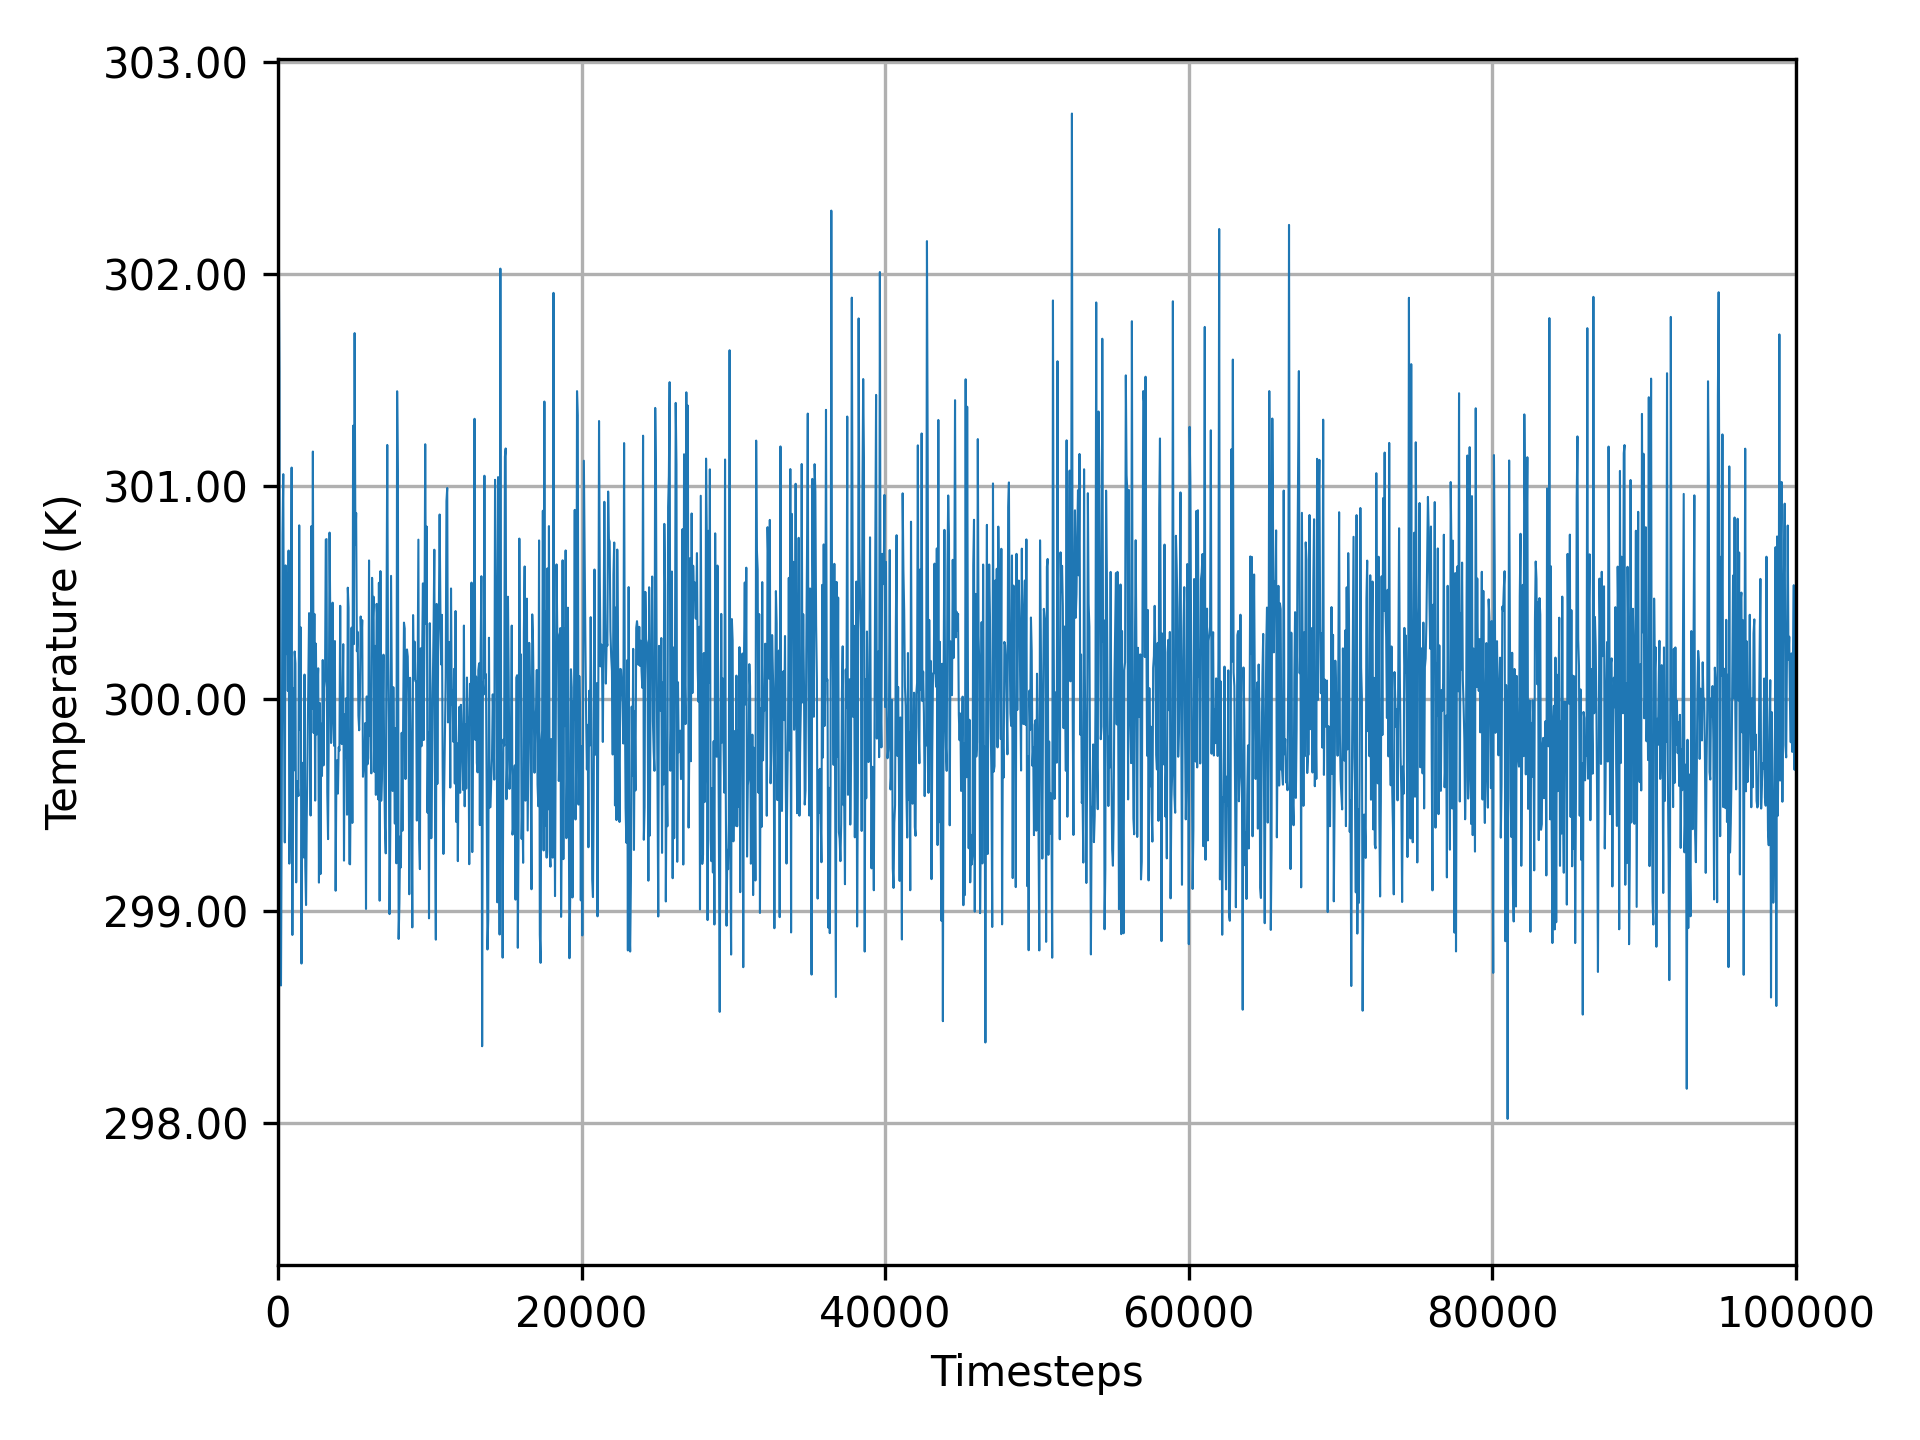
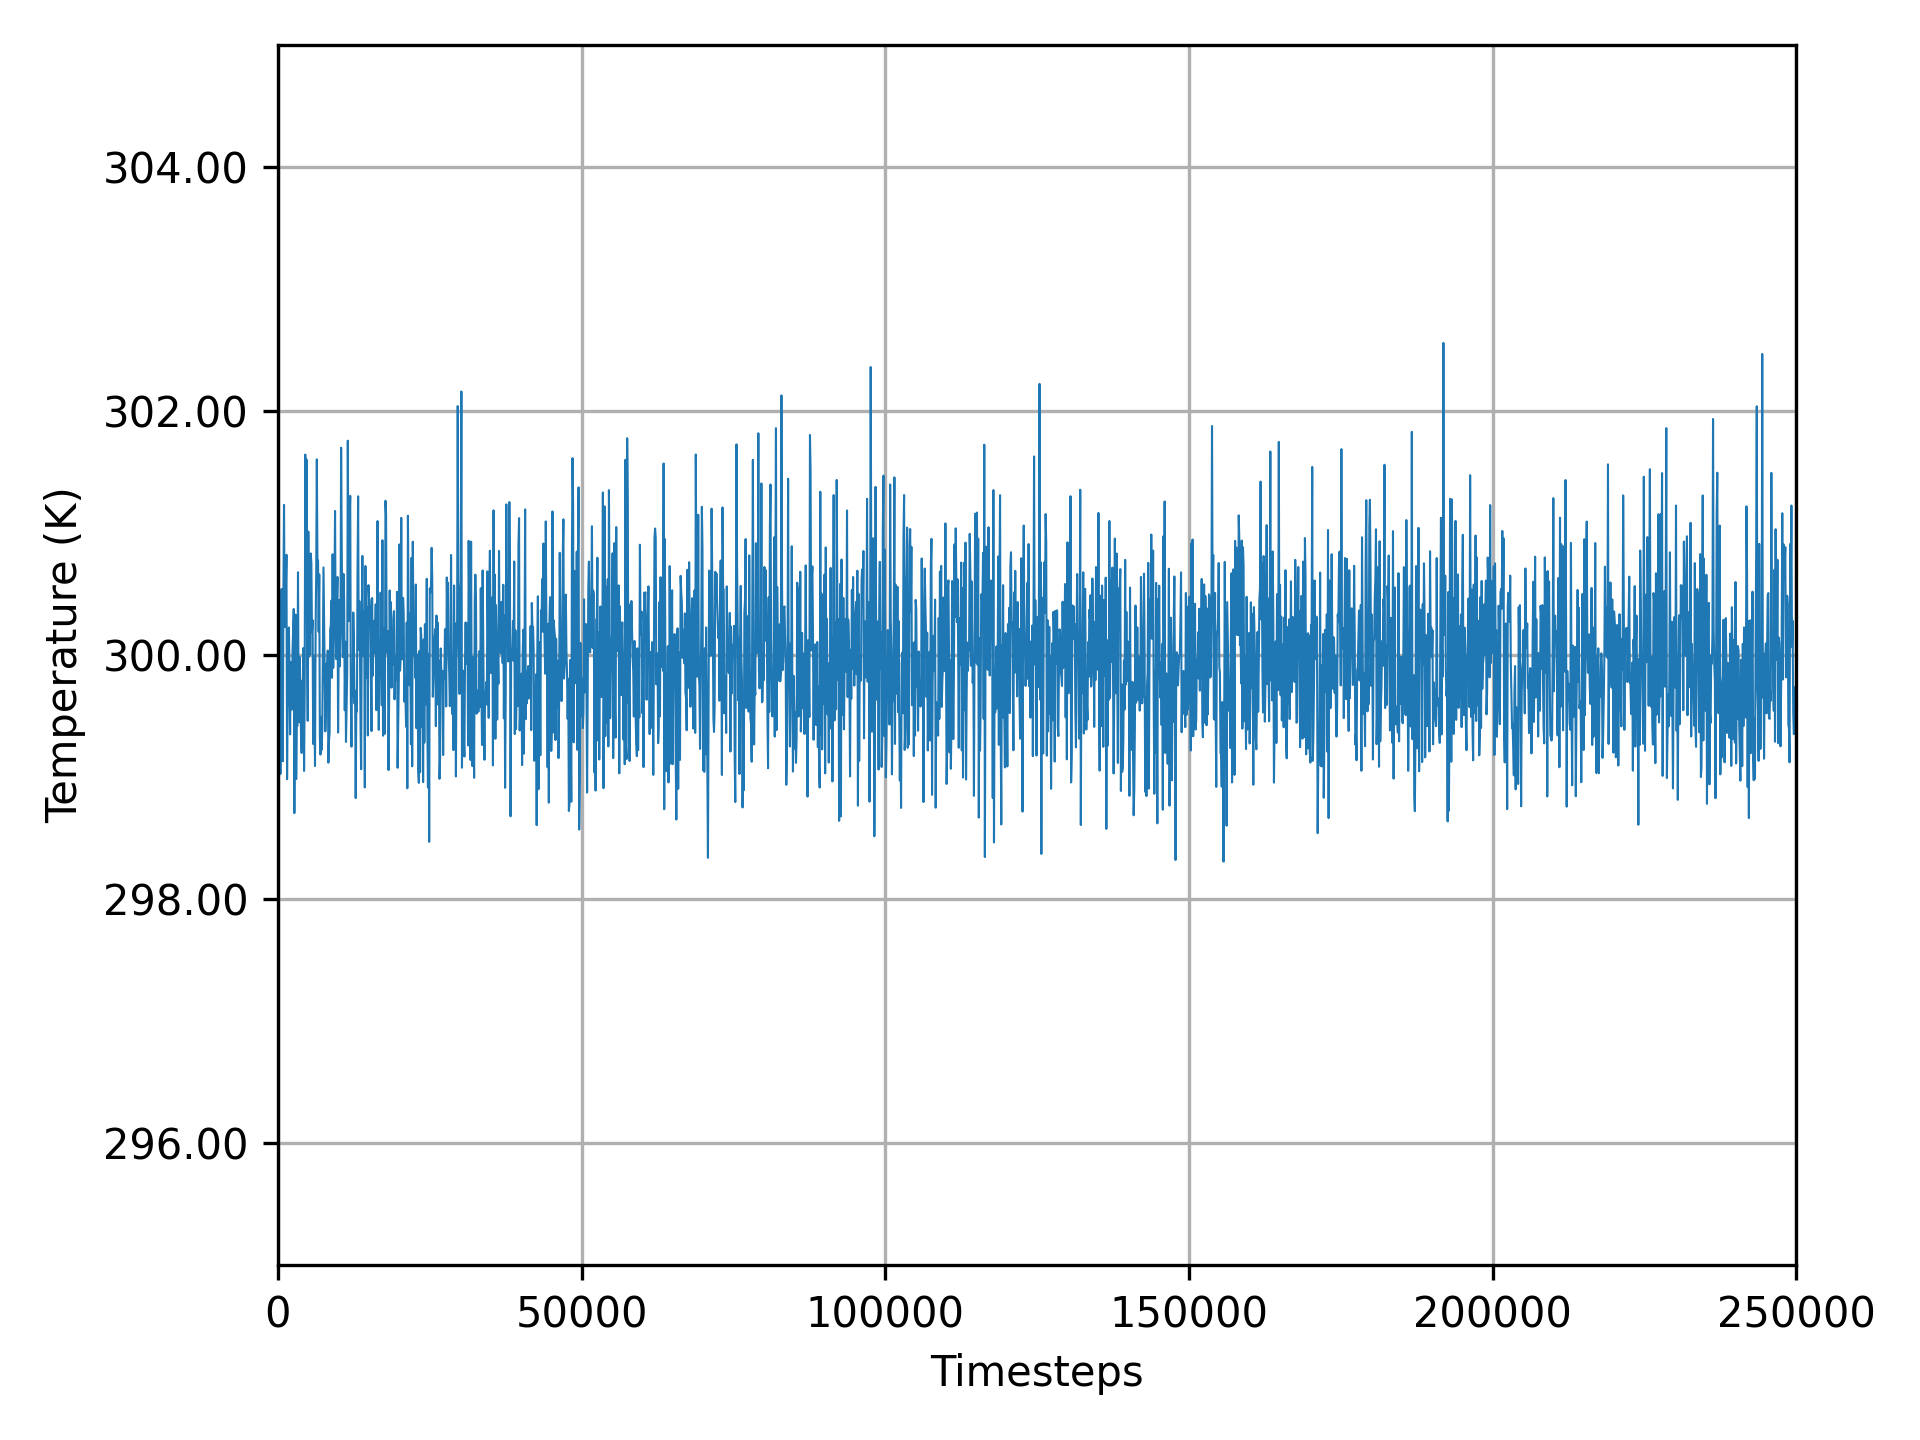
Update examples

diff --git a/examples/nve.rs b/examples/nve.rs
@@ -2,13 +2,12 @@ extern crate pretty_env_logger;
 
 use std::fs::File;
 use std::io::BufReader;
-use std::rc::Rc;
 
+use vasp_poscar::Poscar;
 use velvet::prelude::*;
-use velvet_core::neighbors::NeighborList;
 
-static TIMESTEPS: usize = 100_000;
-static OUTPUT_INTERVAL: usize = 50;
+static TIMESTEPS: usize = 250_000;
+static OUTPUT_INTERVAL: usize = 100;
 static OUTPUT_FILENAME: &str = "nve.h5";
 
 fn main() {
@@ -17,7 +16,8 @@ fn main() {
     // Load an Ar gas system from a POSCAR formatted file.
     let file = File::open("resources/test/Ar.poscar").unwrap();
     let reader = BufReader::new(file);
-    let mut system = load_poscar(reader);
+    let poscar = Poscar::from_reader(reader).unwrap();
+    let mut system = import_poscar(&poscar);
 
     // Initialize the system temperature using a Boltzmann velocity distribution.
     let boltz = Boltzmann::new(300.0);
@@ -28,9 +28,9 @@ fn main() {
     let argon = Specie::from_element(0, Element::Ar);
 
     // Store all of the system's potentials in a Potentials struct.
-    let neighbor_list = NeighborList::new(8.5, Some((argon, argon)), 3);
     let potentials = PotentialsBuilder::new()
-        .with_pair(Rc::new(lj), neighbor_list)
+        .with_pair_update_frequency(3)
+        .add_pair(Box::new(lj), (argon, argon), 8.5, 1.0)
         .build();
 
     // Initialize a velocity Verlet style integrator.

diff --git a/examples/nvt.rs b/examples/nvt.rs
@@ -2,13 +2,12 @@ extern crate pretty_env_logger;
 
 use std::fs::File;
 use std::io::BufReader;
-use std::rc::Rc;
 
+use vasp_poscar::Poscar;
 use velvet::prelude::*;
-use velvet_core::neighbors::NeighborList;
 
-static TIMESTEPS: usize = 100_000;
-static OUTPUT_INTERVAL: usize = 50;
+static TIMESTEPS: usize = 250_000;
+static OUTPUT_INTERVAL: usize = 100;
 static OUTPUT_FILENAME: &str = "nvt.h5";
 
 fn main() {
@@ -17,7 +16,8 @@ fn main() {
     // Load an Ar gas system from a POSCAR formatted file.
     let file = File::open("resources/test/Ar.poscar").unwrap();
     let reader = BufReader::new(file);
-    let mut system = load_poscar(reader);
+    let poscar = Poscar::from_reader(reader).unwrap();
+    let mut system = import_poscar(&poscar);
 
     // Initialize the system temperature using a Boltzmann velocity distribution.
     let boltz = Boltzmann::new(300.0);
@@ -28,9 +28,9 @@ fn main() {
     let argon = Specie::from_element(0, Element::Ar);
 
     // Store all of the system's potentials in a Potentials struct.
-    let neighbor_list = NeighborList::new(8.5, Some((argon, argon)), 3);
     let potentials = PotentialsBuilder::new()
-        .with_pair(Rc::new(lj), neighbor_list)
+        .with_pair_update_frequency(3)
+        .add_pair(Box::new(lj), (argon, argon), 8.5, 1.0)
         .build();
 
     // Initialize a velocity Verlet style integrator.

diff --git a/scripts/nve-analyze.py b/scripts/nve-analyze.py
@@ -4,8 +4,8 @@ import numpy as np
 
 from matplotlib.ticker import FormatStrFormatter
 
-TIMESTEPS = 100000
-OUTPUT_INTERVAL = 50
+TIMESTEPS = 250000
+OUTPUT_INTERVAL = 100
 OUTPUT_FILENAME = "nve.h5"
 
 if __name__ == "__main__":
@@ -16,6 +16,7 @@ if __name__ == "__main__":
     fig, ax = plt.subplots()
     ax.plot(logged_steps, energies, linewidth=0.5)
     ax.set_xlim((0, TIMESTEPS))
+    ax.set_ylim((-3142, -3125))
 
     ax.set_xlabel("Timesteps")
     ax.set_ylabel("Potential Energy (kcal/mol)")

diff --git a/scripts/nvt-analyze.py b/scripts/nvt-analyze.py
@@ -4,8 +4,8 @@ import numpy as np
 
 from matplotlib.ticker import FormatStrFormatter
 
-TIMESTEPS = 100000
-OUTPUT_INTERVAL = 50
+TIMESTEPS = 250000
+OUTPUT_INTERVAL = 100
 OUTPUT_FILENAME = "nvt.h5"
 
 if __name__ == "__main__":
@@ -16,6 +16,7 @@ if __name__ == "__main__":
     fig, ax = plt.subplots()
     ax.plot(logged_steps, energies, linewidth=0.5)
     ax.set_xlim((0, TIMESTEPS))
+    ax.set_ylim((295, 305))
 
     ax.set_xlabel("Timesteps")
     ax.set_ylabel("Temperature (K)")
